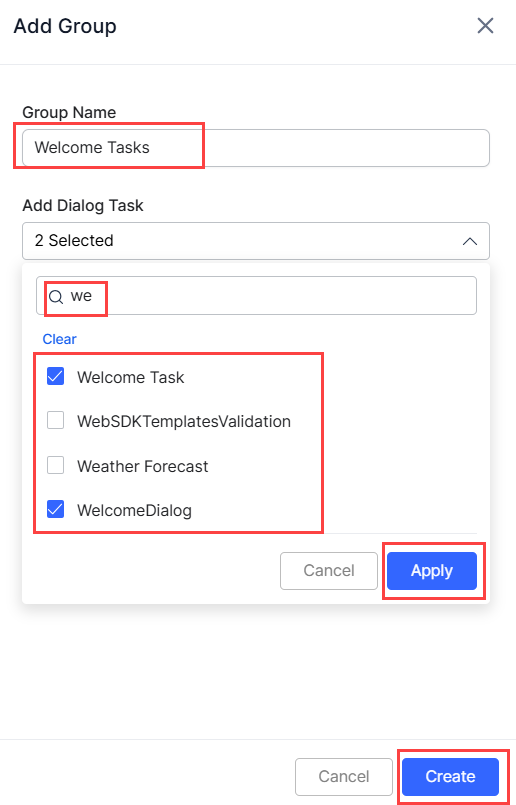
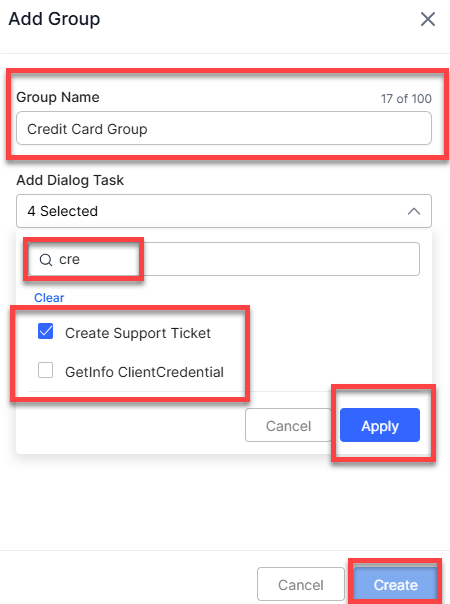
content and link updates based on RN_3.16.0

diff --git a/docs/xo/agentai/configuration/conversation-events.md b/docs/xo/agentai/configuration/conversation-events.md
@@ -94,51 +94,84 @@ In this section, you can select what to run first between the dialog tasks and g
     !!! note
         If **Agentic Copilot** is enabled in **Widget Settings** > **Agent AI Channel Specific Settings**, the message *"Whenever Agentic Copilot is enabled, it will run after the configured Welcome Events"* appears in the **Priority Settings** section:  
 
-## Exit Events
-Exit Events mark the end of a customer interaction. This section lets you configure a dialog task or a conversation summary to automatically run when the end-of-conversation event triggers.
+## Exit Events 
 
-### Configure End of conversation Dialog Task
-In this section, you can select a dialog task to run automatically once the exit event triggers.
+Exit Events mark the end of a customer interaction. This section lets you configure a dialog task, a conversation summary, or an Agentic app to run automatically when the end-of-conversation event triggers. While multiple options are available, you must select one of the following combinations: 
 
-#### Steps to configure End of Conversation Dialog Task
-1. Sign in to **AI for Service**.
-2. Go to **Agent AI** > **Configurations** > **Conversation Events**.
+* Configure End of Conversation Dialog Task + Conversation Summary > OOTB Kore Summarization
+* Conversation Summary + Configure End of Conversation Agentic App 
+
+### Configure End of Conversation Dialog Task 
+
+This section lets you select a dialog task to run automatically when an exit event triggers at the end of a conversation. To enable this, you must disable both the **Conversation Summary**> **Custom Dialog Task** and **Configure End of Conversation Agentic App** options. 
+
+#### Steps to Configure End-of-Conversation Dialog Task 
+
+1. Sign in to **AI for Service** > **Agent AI**.
+2. Go to **Configurations** > **Conversation Events**.  
 3. Click **Exit Events**.  
-   <img src="../welcome-events-images/exit-events.png" alt="exit-events" title="exit-events" style="border: 1px solid gray; zoom:80%;"> 
-4. Select a channel - **Chat**, **Voice**, or **Email**.
-5. Click the toggle to enable **Configure End of conversation Dialog Task**. The following confirmation message appears:  
-   <img src="../welcome-events-images/enable-end-of-conversation-dialog.png" alt="enable-end-of-conversation-dialog" title="enable-end-of-conversation-dialog" style="border: 1px solid gray; zoom:80%;">  
+   <img src="../welcome-events-images/exit-events-1.png" alt="exit-events" title="exit-events" style="border: 1px solid gray; zoom:80%;">  
 
-    !!! note
+4. Select a channel – **Chat**, **Voice**, or **Email**. 
+5. Click the toggle to enable **Configure End of conversation Dialog Task**.  
+    1. The following confirmation message appears, if the **Conversation Summary** > **Custom Dialog Task** was enabled:  
+    <img src="../welcome-events-images/disable-custom-summarization-2.png" alt="disable-custom-summarization" title="disable-custom-summarization" style="border: 1px solid gray; zoom:80%;">  
 
-        For new accounts, the **Conversation Summary** > **OOTB Kore Summarization** is enabled by default.  
+        !!! note
 
-6. Click **Yes, Proceed**.
-7. Click to expand the **Configure End of conversation Dialog Task** section.
+            For new accounts, the **Conversation Summary** > **OOTB Kore Summarization** is enabled by default.  
+
+    2. The following confirmation message appears, if the **Configure End of Conversation Agentic App** was enabled:  
+    <img src="../welcome-events-images/disable-agentic-exit-events-3.png" alt="disable-agentic-exit-events" title="disable-agentic-exit-events" style="border: 1px solid gray; zoom:80%;">  
+
+6. Click **Yes, Proceed**. 
+7. Click to expand the **Configure End of conversation Dialog Task** section. 
 8. Select a dialog task from the **Select Dialog** dropdown list.  
-   <img src="../welcome-events-images/end-of-conv-dialog.png" alt="end-of-conv-dialog" title="end-of-conv-dialog" style="border: 1px solid gray; zoom:80%;"> 
-
-9. Click **Save**.
+   <img src="../welcome-events-images/select-dialog-4.png" alt="select-dialog" title="select-dialog" style="border: 1px solid gray; zoom:80%;">  
+9. Click **Save**. 
 
 ### Conversation Summary
-In this section, you can select how to auto generate a conversation summary at the end of a conversation. You can select either the out-of-the-box (OOTB) Kore Summarization or the Custom Dialog Task model to generate the summary. Also, if you select OOTB you can either continue with the default Kore's model or create and select your own model.
 
-#### Steps to set Conversation Summary
-1. Sign in to **AI for Service**.
-2. Go to **Agent AI** > **Configurations** > **Conversation Events**.
+This section lets you configure how to autogenerate a conversation summary at the end of a conversation. You can select either the out-of-the-box (OOTB) Kore Summarization or the Custom Dialog Task model. To use the Custom Dialog Task option, you must disable the **Configure End of Conversation Dialog Task** setting. 
+
+#### Steps to set Conversation Summary 
+
+1. Sign in to **AI for Service** > **Agent AI**.
+2. Go to **Configurations**> **Conversation Events**.
 3. Click **Exit Events**.
-4. Select a channel - **Chat**, **Voice**, or **Email**.
-5. Click the toggle to enable **Conversation Summary**. The following confirmation message appears, if the **Configure End of conversation Dialog Task** option is enabled:  
-   <img src="../welcome-events-images/enable-conv-summary.png" alt="enable-conv-summary" title="enable-conv-summary" style="border: 1px solid gray; zoom:80%;">  
+4. Select a channel – **Chat**, **Voice**, or **Email**.
+5. Click the toggle to enable **Conversation Summary**.
+6. Select either **OOTB Kore Summarization** or **Custom Dialog Task**.
+    1. If you select **Custom Dialog Task**, the following confirmation message appears (if the **Configure End of Conversation Dialog Task was enabled**):  
+    <img src="../welcome-events-images/disable-end-of-conversation-5.png" alt="disable-end-of-conversation" title="disable-end-of-conversation" style="border: 1px solid gray; zoom:80%;">   
 
-6. Click **Yes, Proceed**.
-7. Select either **OOTB Kore Summarization** or **Custom Dialog Task**.
-    1. If you select **OOTB Kore Summarization**, you can either continue with the default Kore's model or create and select your own custom model. To create your Custom LLM model, refer to [Custom LLM Model](./../../agentai/configuration/custom-llm-model-in-genai.md){:target="_blank"} and to select your model refer to [Select Your Model](./../../agentai/configuration/custom-llm-model-in-genai.md#steps-to-select-custom-model){:target="_blank"}. 
-    2. If you select **Custom Dialog Task**, select a dialog task from the **Select Dialog** dropdown list:  
-    <img src="../welcome-events-images/conv-summ-dialog-selection.png" alt="conv-summ-dialog-selection" title="conv-summ-dialog-selection" style="border: 1px solid gray; zoom:80%;">  
+    2. Click **Yes, Proceed**.
+    3. Select a **dialog task** from the **Select Dialog** dropdown list:  
+    <img src="../welcome-events-images/custom-dialog-task-6.png" alt="custom-dialog-task" title="custom-dialog-task" style="border: 1px solid gray; zoom:80%;">   
 
-8. Select or clear the **Show Submit button** option.
-9. Click **Save**.
- 
-    !!! note
-        Only one option-**Configure End of conversation Dialog Task** or **Conversation Summary**-can be enabled at a time.
+7. Select or clear the **Show Submit button** option. 
+8. Click **Save**. 
+
+### Configure End of Conversation Agentic App 
+
+This section lets you select an Agentic App to trigger when a conversation ends. You can select either the same app used in Agentic Copilot or a different Agentic App. This toggle is disabled unless **Agentic Copilot** is enabled in **Widget Settings > Agent AI Channel Specific Settings**. Enabling it disables the **Configure End of Conversation Dialog Task** setting. The following options are available: 
+
+* **Use same app as Agentic Copilot**: Uses the same app configured for Agentic Copilot.
+* **Select a different Agentic App**: Displays a dropdown list of available Agentic Apps (excluding the app used by Agentic Copilot).  
+
+#### Steps to Configure End of Conversation Agentic App  
+
+1. Sign in to **AI for Service** > **Agent AI**.
+2. Go to **Configurations** > **Conversation Events**.
+3. Click **Exit Events**.
+4. Select a channel—**Chat**, **Voice**, or **Email**.
+5. Click the toggle to enable **Configure End of Conversation Agentic App**.
+6. The following confirmation message appears, if **Configure End of Conversation Dialog Task** was enabled.  
+<img src="../welcome-events-images/disable-end-of-conversation-dialog-task-7.png" alt="disable-end-of-conversation-dialog-task" title="disable-end-of-conversation-dialog-task" style="border: 1px solid gray; zoom:80%;">  
+
+7. Click **Yes, Proceed**.
+8. Select **Use same app as Agentic Copilot** or **Select a different Agentic App** option.  
+    1. If you select the **Select a different Agentic App** option, the following screenshot appears:  
+      <img src="../welcome-events-images/different-agentic-app-8.png" alt="different-agentic-app" title="different-agentic-app" style="border: 1px solid gray; zoom:80%;">  
+    2. Select an **Agentic App** from the dropdown list.  
+9. Click **Save**. 

diff --git a/docs/xo/agentai/configuration/widget-theming-layout-customization.md b/docs/xo/agentai/configuration/widget-theming-layout-customization.md
@@ -63,7 +63,7 @@ This section lets you enable or disable the Agent AI widget menus - **Assist Hom
 
     The **Dark Mode** and **Settings** menu symbols are not customizable, and the **Dark Mode** is the only functional button even in the preview mode of the widget.
 
-### Adding a Custom Tab
+### Add a Custom Tab
 
 The **+ Add Custom Tab** feature lets you create a custom tab within the Agent AI widget. You can configure the tab to either run a dialog task automatically based on selected events or highlight a task for agents to view and execute, as needed. Once named, you can rename, edit, and mark it as the landing tab. Follow these steps to add a new custom tab:
 
@@ -84,7 +84,7 @@ The **+ Add Custom Tab** feature lets you create a custom tab within the Agent A
 6. Click **Apply**. The custom tab is created, as highlighted in the following screenshot:  
 <img src="../widget-theming-layout-customization/new-custom-tab.png" alt="new-custom-tab" title="new-custom-tab" style="border: 1px solid gray; zoom:80%;">
 
-### Editing and Deleting a Custom Tab
+### Edit or Delete a Custom Tab
 
 To modify or delete an existing Custom Tab:
 
@@ -139,32 +139,37 @@ This feature allows you to organize dialog tasks into groups. During group creat
 
 !!! note
 
-    Dialog tasks not added to a group don’t show up during runtime.
+    Dialog tasks not added to a group don’t show up during runtime. 
 
-
-### Adding a Dialog Task Group
+### Add a Dialog Task Group
 
 1. Click **+ Add Group** at the top-right corner of the **Dialog Task Layout** section.  
 <img src="../widget-theming-layout-customization/dialog-task-layout/dialog-task-grouping-5.png" alt="dialog-task-grouping" title="dialog-task-grouping" style="border: 1px solid gray; zoom:80%;">
-2. Enter a unique name in the **Group Name** field.
+2. Enter a unique name in the **Group Name** field. You can add up to 100 characters. 
 3. Click the **Add Dialog Task** field to display all the existing dialog tasks.
 4. Click to select the dialog task names. You can also click the “search” button to find a dialog task.
 5. Click **Apply** to complete the dialog tasks selection process.
 6. Click **Create**.  
 <img src="../widget-theming-layout-customization/dialog-task-layout/adding-group-6.png" alt="adding-group" title="adding-group" style="border: 1px solid gray; zoom:80%;">
 
-### Editing or Deleting a Dialog Task Group
+### Edit, Expand, Collapse or Delete a Dialog Task Group
 
-In this section, you can modify the Dialog Task Group name and add or remove dialog tasks from the group.
+Use this section to rename a dialog task group, manage its dialog tasks, or expand, collapse, or delete the group. 
 
-1. To edit a Dialog Task Group, click the “edit” button against the Dialog Task Group name:  
+1. To edit, click the “edit” button against the Dialog Task Group name:  
 <img src="../widget-theming-layout-customization/dialog-task-layout/dialog-group-editing-7.png" alt="dialog-group-editing" title="dialog-group-editing" style="border: 1px solid gray; zoom:80%;">
 
 2. Make all the required changes, and click **Save**.  
 <img src="../widget-theming-layout-customization/dialog-task-layout/dialog-task-group-saving-8.png" alt="dialog-task-group-saving" title="dialog-task-group-saving" style="border: 1px solid gray; zoom:80%;">
-3. To delete a Dialog Task Group, click the “delete” button against it:  
-<img src="../widget-theming-layout-customization/dialog-task-layout/group-deleting-9.png" alt="group-deleting" title="group-deleting" style="border: 1px solid gray; zoom:80%;">
-4. Click **Delete** in the confirmation window.
+3. To delete, click the “delete” button against it:  
+<img src="../widget-theming-layout-customization/dialog-task-layout/group-deleting-9.png" alt="group-deleting" title="group-deleting" style="border: 1px solid gray; zoom:80%;"> 
+4. Click **Delete** in the confirmation window. 
+5. To expand or collapse, click the **expand/collapse** button:  
+<img src="../widget-theming-layout-customization/dialog-task-layout/expand-collapse-dialog-tasks.png" alt="expand-collapse-dialog-tasks" title="expand-collapse-dialog-tasks" style="border: 1px solid gray; zoom:80%;">  
+
+    !!! note
+
+        The widget retains the expanded or collapsed state of a group, as configured during the last save. 
 
 ### Add, Sort, and Delete dialog tasks from a Dialog Task Group
 

diff --git a/docs/xo/agentai/configuration/widget-settings.md b/docs/xo/agentai/configuration/widget-settings.md
@@ -36,6 +36,12 @@ This section lets you set your preferences based on the channels. It has three c
 
 * **Copy Button**: This widget lets you control the accessibility of the Copy button functionality for Agent AI responses. By default, this widget is enabled for all three channels.
 
+* **Widget Search Bar Configuration**: This widget enables you to have a configurable search experience through the widget search bar. Search results load faster because they display as soon as data is retrieved from the first available source (XO Platform, Search AI, or Agentic App), while results from other sources load gradually. When **disabled**, the [default search experience](../../agentai/agent-experience/agent-assist-widget-v3.md/#search-tab){:target="_blank"} displays results from all sources simultaneously. When **enabled**, you can select one or more of the following options based on your need: 
+
+    * **XO Platform**: To identify and surface intents such as dialogs and FAQs through the XO Platform.
+    * **Search AI**: To get search results or answers from the **Search AI** app.
+    * **Agentic App (LLM)**: To power search results through a customizable Agentic App. You must select an Agentic App from the dropdown list, from which results will display in runtime. 
+
 * **Conversation Transfer**: This widget lets you define and categorize the conversation transfer behavior based on the transfer type and channels. It applies only to the third-party configurations where appropriate transfer events are transmitted.
 
     * **Cold Transfer**: It is defined as a conversation handover that happens between two agents and is applicable to all three channels – Voice, Chat, and Email. The conversation summary is generated again for the receiving agent, and this summary, along with the feedback options, gets added to Agent-1’s Assist tab. Agent-2 can change the summary feedback for voice and email channels.
@@ -81,10 +87,17 @@ This section lets you set your preferences based on the channels. It has three c
     * Use agent’s entry and exit events 
     <img src="../widget-settings-images/control-transcript-visibility.png" alt="control-transcript-visibility" title="control-transcript-visibility" style="border: 1px solid gray; zoom:80%;"> 
 
-10. Select an option under the **Conversation Transfer** section.
-11. Enable or disable the **Auto Summarization** toggle.
-12. Select a language for the **Auto Summarization** field. The selected app's language appears by default.
-13. Select or clear the **Submit** button under the **Auto Summarization** section.
+10. Select an option under the **Conversation Transfer** section.  
+11. Turn on the **Widget Search Bar Configuration** toggle. 
+    1. Select one or more options—**XO Platform**, **Search AI**, **Agentic App**.  
+    2. If you select **Agentic App**, select an app from the dropdown list. 
+
+        !!! note
+            The **Search AI** and **Agentic App** fields are disabled until they are configured. A warning message prompts you to configure them before use.  
+
+12. Enable or disable the **Auto Summarization** toggle.
+13. Select a language for the **Auto Summarization** field. The selected app's language appears by default.
+14. Select or clear the **Submit** button under the **Auto Summarization** section.
 
     Under the **Auto Summarization Model** section, select:
 

diff --git a/docs/xo/release-notes/11.x/agent-ai.md b/docs/xo/release-notes/11.x/agent-ai.md
@@ -10,18 +10,19 @@ This document provides information on the feature updates and enhancements intro
 
 **Agentic Copilot Auto-Send functionality now Supports Multiple Parallel Chats**
 
-The Auto-Send functionality now supports multiple parallel chats. The updated communication mechanism enables Agentic Copilot to auto-send responses, regardless of the active UI frame. It resolves disruptions caused by widget reloads when agents switch between customers, ensuring uninterrupted support across multiple conversations.
+The Auto-Send functionality now supports multiple parallel chats. The updated communication mechanism enables Agentic Copilot to auto-send responses, regardless of the active UI frame. It resolves disruptions caused by widget reloads when agents switch between customers, ensuring uninterrupted support across multiple conversations. [Learn more :octicons-arrow-right-24:](../../agentai/agent-experience/agent-assist-widget-v3.md/#assist-tab)
 
 **Enhanced Dialog Task Grouping**
 
-When grouping Dialog Tasks, the Group Name field now supports up to 100 characters, and a character counter displays the number of characters entered as you type. The widget retains the expanded or collapsed state of a group, as configured during the last save.
+When grouping Dialog Tasks, the Group Name field now supports up to 100 characters, and a character counter displays the number of characters entered as you type. The widget retains the expanded or collapsed state of a group, as configured during the last save. [Learn more :octicons-arrow-right-24:](../../agentai/configuration/widget-theming-layout-customization.md/#edit-expand-collapse-or-delete-a-dialog-task-group) 
 
 **Exit Events Support Agentic App Configuration**
 
 The Exit Events tab now includes the **Configure End of Conversation Agentic App** section, which lets you select an Agentic App to trigger when a conversation ends. This option is available only when Agentic Copilot is enabled in the Widget Settings > Agent AI Channel Specific Settings section. When enabled, you can select one of the following options:
 
 * Use the same app as Agentic Copilot: Select this option if you want to use the same app configured for Agentic Copilot.
-* Select a different Agentic App: Select this option to get a dropdown list of available Agentic Apps, excluding the one used by Agentic Copilot.
+* Select a different Agentic App: Select this option to get a dropdown list of available Agentic Apps, excluding the one used by Agentic Copilot. 
+[Learn more :octicons-arrow-right-24:](../../agentai/configuration/conversation-events.md/#configure-end-of-conversation-agentic-app)  
 
 **Introduction of Widget Search Bar Configuration Toggle**
 
@@ -31,7 +32,7 @@ The Agent AI Channel Specific Settings section now includes the Widget Search Ba
 * Search AI: Get search results or answers from the Search AI app.
 * Agentic App (LLM): Powers search results through a customizable Agentic App.
 
-When the toggle is disabled, the widget uses the default search behavior.
+When the toggle is disabled, the widget uses the default search behavior. [Learn more :octicons-arrow-right-24:](../../agentai/configuration/widget-settings.md/#agent-ai-channel-specific-settings) 
 
 <font size="4">Widget Runtime Enhancement</font>
 

diff --git a/docs/xo/agentai/agent-experience/agent-assist-widget-v3.md b/docs/xo/agentai/agent-experience/agent-assist-widget-v3.md
@@ -81,6 +81,7 @@ The Assist tab facilitates the following:
 
 * Guide agents through conversations by providing the best response suggestions.
 * Display Agentic Copilot messages. After the configured **Welcome Events** are executed, the message *"Agentic Copilot is actively listening to your conversation and ready to assist automatically."* is displayed. 
+    * Delays auto sending messages, allowing agents to cancel or manually send messages, and works across parallel chats.  
 * Automatic retrieval of information from knowledge base (KB) based on user intent.
 * Provide structured training and coaching to agents.
 * Run app for customers based on customer-provided information.
@@ -97,8 +98,10 @@ The Assist tab features the following:
 
 * **Running Playbook stages:** Shows the total and adhered stages of a running playbook. For example, 1/3 means 1 out of 3 stages of a playbook has been adhered to.
 * **Proceed to Close:** This button is available when a playbook is running. Clicking this button leads to a change in the playbook running status from Open to Close, and agents are prompted to ask if the customer needs any other help before ending the call.
-- **Agentic Copilot messages**: The messages appear with a “Sending” button that delays up to 10 seconds (based on the time set in the Set message delay before auto send field of the **Agent AI Widget Settings** section). During this time, Agents can click “x” beside the “sending” button to cancel auto send and then manually send or copy the messages. The following screenshot shows the auto send functionality button in progress along with the “Override” button:  
-<img src="../widget-images/agentic-app-in-widget.png" alt="agentic-app-in-widget" title="agentic-app-in-widget" style="border: 1px solid gray; zoom:80%;"> 
+* **Agentic Copilot messages**: The messages appear with a “Sending” button that delays auto-send for up to 10 seconds, based on the value set in the **Set message delay before auto send** field in the **Agent AI Widget Settings** section). During this time, Agents can click the **x** icon next to the **sending** button to cancel auto-send and choose to send or copy the message manually. 
+
+    The auto-send functionality works uninterrupted across multiple parallel chats. The following screenshot shows the auto-send functionality button in progress along with the **Override** button:  
+    <img src="../widget-images/agentic-app-in-widget.png" alt="agentic-app-in-widget" title="agentic-app-in-widget" style="border: 1px solid gray; zoom:80%;"> 
 
    * To cancel auto sending, click “x” beside the “sending” button:  
     <img src="../widget-images/agentic-app-messages.png" alt="agentic-app-messages" title="agentic-app-messages" style="border: 1px solid gray; zoom:80%;"> 
